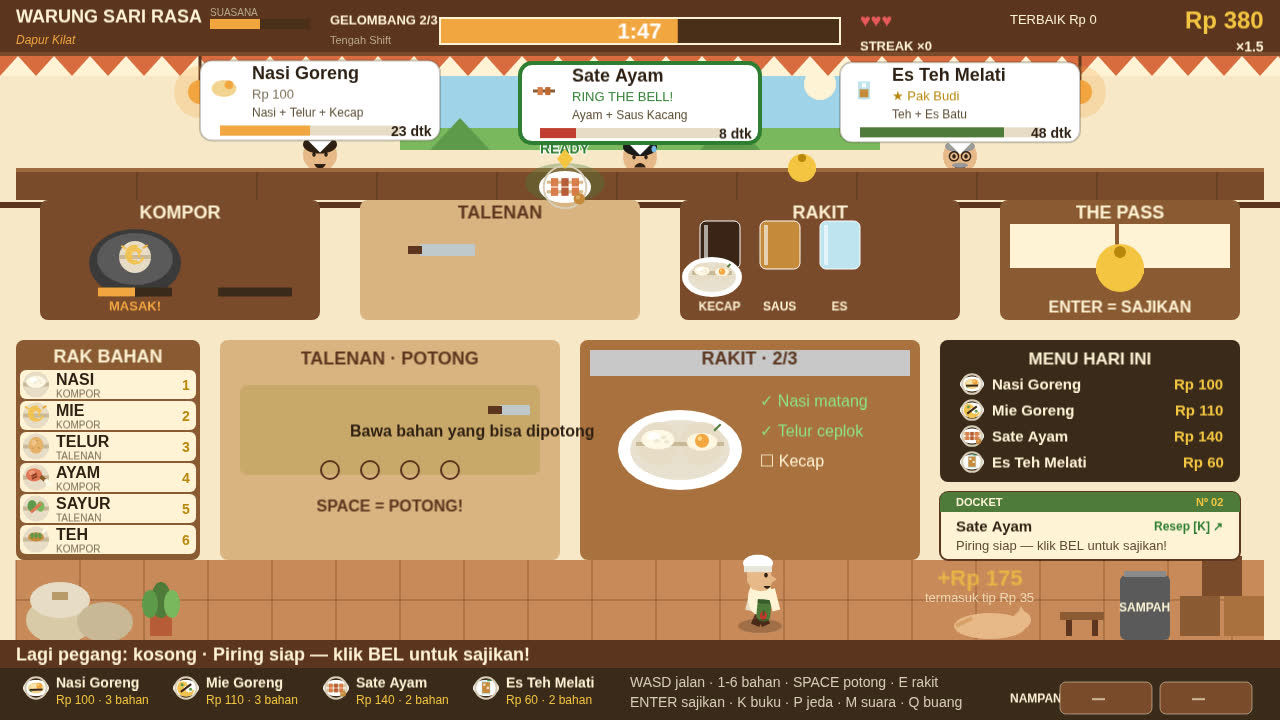
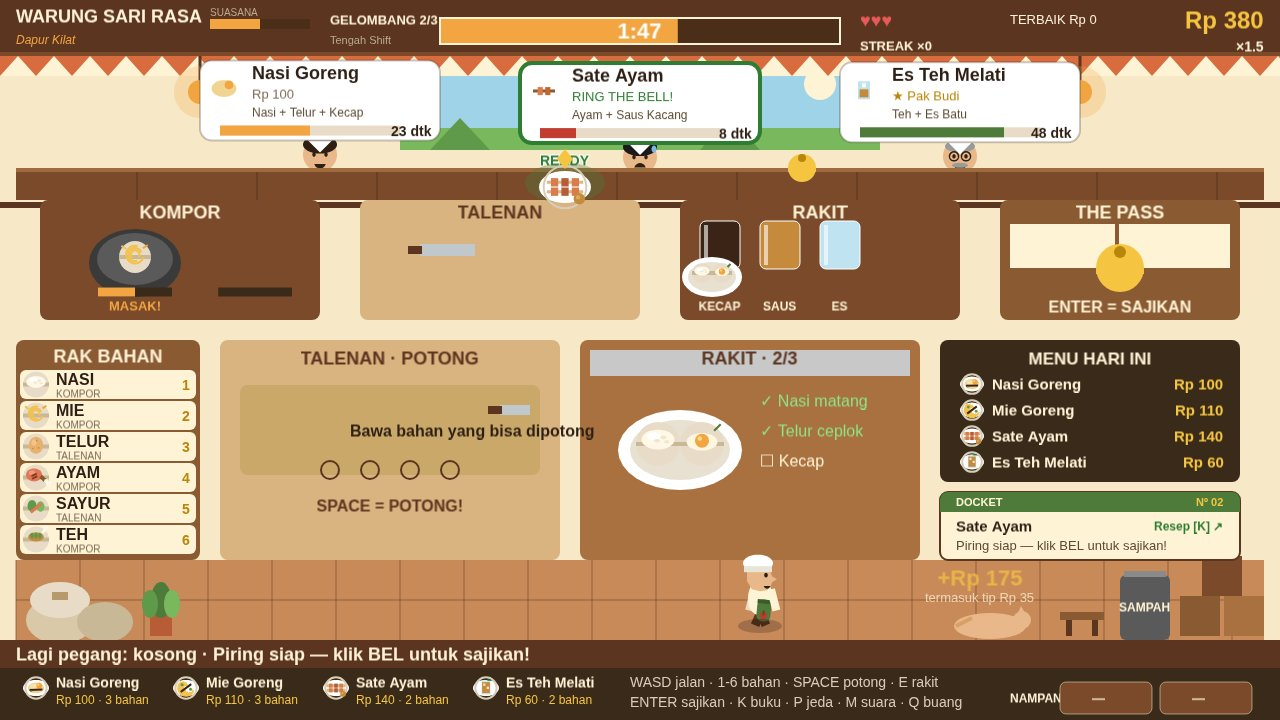
fix: docket click, shot-4 framing, READY tag, docket/RAKIT vs carried plate (QA+Red Team re-verify)
- R3 (HIGH): handleClickAction had no 'book' branch, so docket clicks
  fell through and did nothing (K worked). Added the branch + a
  'book'-mode click route so the docket link toggles the book closed too.
- R1 (MEDIUM): shot 4 re-shot at zoom 1.0, centre (605,355) — the 1.05x
  zoom misaligned world-space menu/cook vs screen-fixed docket/status
  bar. Menu right edge now at screen 1275, teh row clear of the docket,
  cook's feet clear of the status bar.
- R2 (LOW): READY tag y-10 -> y+2, fully below the order card's bottom
  edge; full word visible (verified at 3x).
- R4 (LOW): docketInfo now names the CARRIED plate's dish; shot 3
  re-staged with the sate ticket selected so the RAKIT checklist agrees.
- Shot 2 (chop) unchanged (byte-identical PNG).

diff --git a/game/src/shots.js b/game/src/shots.js
@@ -133,11 +133,14 @@ export function stageServe(state) {
   baseStaged(state, 108, 175, 3);
   const teh = makeTicket(state, 'teh', 60, null, false);
   teh.patience = 55;
-  const nasi = makeTicket(state, 'nasi', 45, null, false);
-  nasi.patience = 30;
+  // R4: the selected ticket is SATE — the dish the cook carries — so the
+  // RAKIT checklist (selected ticket's recipe) and the docket (carried
+  // plate, via docketInfo) agree: both say Sate Ayam.
+  const sate = makeTicket(state, 'sate', 36, null, false);
+  sate.patience = 25;
   const mie = makeTicket(state, 'mie', 45, null, false);
   mie.patience = 18;
-  state.tickets = [teh, nasi, mie];
+  state.tickets = [teh, sate, mie];
   state.selectedTicket = 1;
 
   state.cook.x = 420;
@@ -188,12 +191,17 @@ export function stageSecondAngle(state) {
   state.cook.animT = 0.3;
   state.cook.hands = [null, null];
 
-  // F5 (revised): zoom 1.05x + centre (618,343) — the HUD top/bottom bars
-  // cover ~53px of the zoomed world at each edge, so a higher zoom cannot
-  // show the order cards (y 60) AND the cook's feet (y 630) at once
-  // (needs zoom < 1.074). At 1.05x the cards, menu names + prices, pantry
-  // and cook are all whole; the framing is a slight zoom + shift.
-  state.camera = { x: 618, y: 343, zoom: 1.05 };
+  // R1: zoom 1.0, centre (605,355) — the 1.05x zoom misaligned the
+  // world-space menu board + cook against the screen-fixed docket +
+  // status bar (docket covered the "Es Teh Melati" row, the menu's right
+  // edge ran off the viewport, the cook's feet hid behind the status bar).
+  // At zoom 1.0 the offset is the only correction: centre (605,355) puts
+  // the menu panel's right edge (world 1240) at screen 1275 (inside, not
+  // exactly on the 1280 edge as (600,350) would), the teh row at screen
+  // 467 (clear of the docket top at 492), and the cook's feet (world 630)
+  // at screen 635 (clear of the status bar at 640) while the order cards
+  // (world 60) sit at screen 65 (clear of the top bar at 56).
+  state.camera = { x: 605, y: 355, zoom: 1.0 };
   return state;
 }
 

diff --git a/game/src/hud.js b/game/src/hud.js
@@ -34,9 +34,13 @@ function nextStep(state) {
 // (Same state as nextStep, but without the "Lagi pegang" prefix, so the
 // panel reads as a ticket: dish on one line, action on the next.)
 function docketInfo(state) {
+  // R4: when the cook carries a plate, the docket names the CARRIED dish —
+  // the plate in hand is the dish being served, not the selected ticket's.
+  // (The step already branched on cook.plate; only the dish was wrong.)
+  const carried = state.cook.plate ? RECIPES[state.cook.plate.dish] : null;
   const ticket = state.tickets[state.selectedTicket] || state.tickets.find(Boolean);
-  if (!ticket) return { dish: '—', step: 'Tunggu pesanan masuk.', num: '' };
-  const r = RECIPES[ticket.dish];
+  if (!carried && !ticket) return { dish: '—', step: 'Tunggu pesanan masuk.', num: '' };
+  const r = carried || RECIPES[ticket.dish];
   const hands = state.cook.hands.filter(Boolean);
   const raw = hands.find((h) => h.prep === 'raw');
   let step;
@@ -50,7 +54,7 @@ function docketInfo(state) {
       : `Masak ${ing} di KOMPOR`;
   } else if (hands.find((h) => h.prep !== 'raw')) step = 'Rakit di meja (klik RAKIT)!';
   else step = `Ambil ${ING_NAME[r.plate[0].kind]} di RAK BAHAN`;
-  return { dish: r.name, step, num: `Nº ${String(ticket.id + 1).padStart(2, '0')}` };
+  return { dish: r.name, step, num: carried || !ticket ? '' : `Nº ${String(ticket.id + 1).padStart(2, '0')}` };
 }
 
 export function buildHUD(scene) {

diff --git a/game/src/main.js b/game/src/main.js
@@ -357,6 +357,10 @@ function handleClickAction(action) {
     }
     return;
   }
+  // R3: the docket's "Resep [K] ↗" link opens the recipe book — the
+  // 'book' branch was missing, so docket clicks fell through to the
+  // final else and did nothing (K worked because handleKeyAction has it).
+  if (action.type === 'book') { toggleBook(); return; }
   if (action.type === 'walk') {
 
     const x = Math.max(ZONES.floor.x, Math.min(ZONES.floor.x + ZONES.floor.w, action.x));
@@ -614,6 +618,12 @@ function update(dt) {
         const action = hitTestClick(click.x, click.y);
         handleClickAction(action);
         state.dialogue = null;
+      } else if (state.mode === 'book') {
+        // R3 (toggle back): clicks are only routed in 'playing' mode, so a
+        // docket click while the book is open was swallowed — route it so
+        // the "Resep [K] ↗" link closes the book again. Other clicks in
+        // book mode are ignored (the book panel covers the centre).
+        if (hitTestClick(click.x, click.y).type === 'book') toggleBook();
       } else if (state.mode === 'title') {
 
         if (click.x >= 540 && click.x <= 740 && click.y >= 400 && click.y <= 456) {

diff --git a/game/src/render.js b/game/src/render.js
@@ -528,9 +528,10 @@ export function syncScene(view, state, dt) {
     if (!wp) { tag.setVisible(false); return; }
     const z = ZONES.windowPlates[i];
     tag.setVisible(true);
-    // y - 10 sits just below the order card's bottom edge (card ends ~y142)
-    // in the clear gap above the counter, so the tag never hides behind a card.
-    tag.setPosition(z.x + z.w / 2, z.y - 10);
+    // R2: y + 2 puts the tag fully below the order card's bottom edge
+    // (card ends ~y142). y - 10 left the tag's top touching the card edge,
+    // so at a glance the top of READY read as sliced flat by the card.
+    tag.setPosition(z.x + z.w / 2, z.y + 2);
   });
 
   const chopItem = nextChoppable(state) || state.cook.hands.find((h) => h && h.prep === 'chopped');
